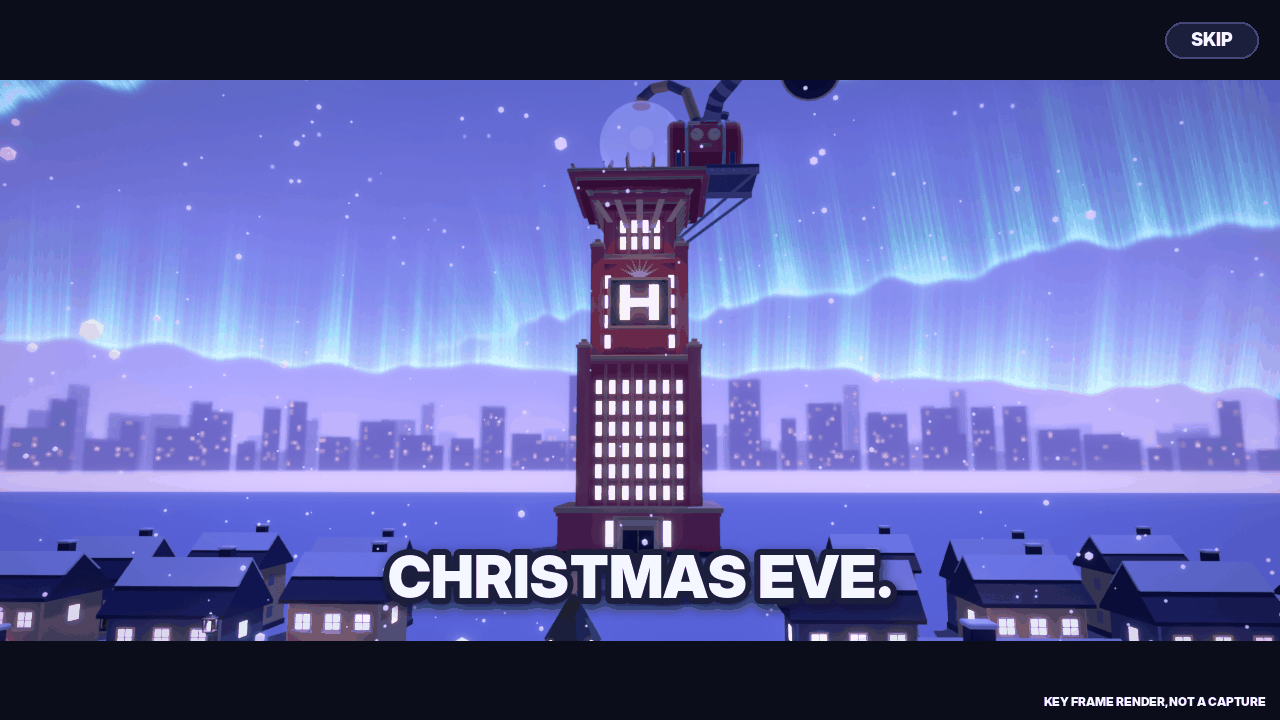
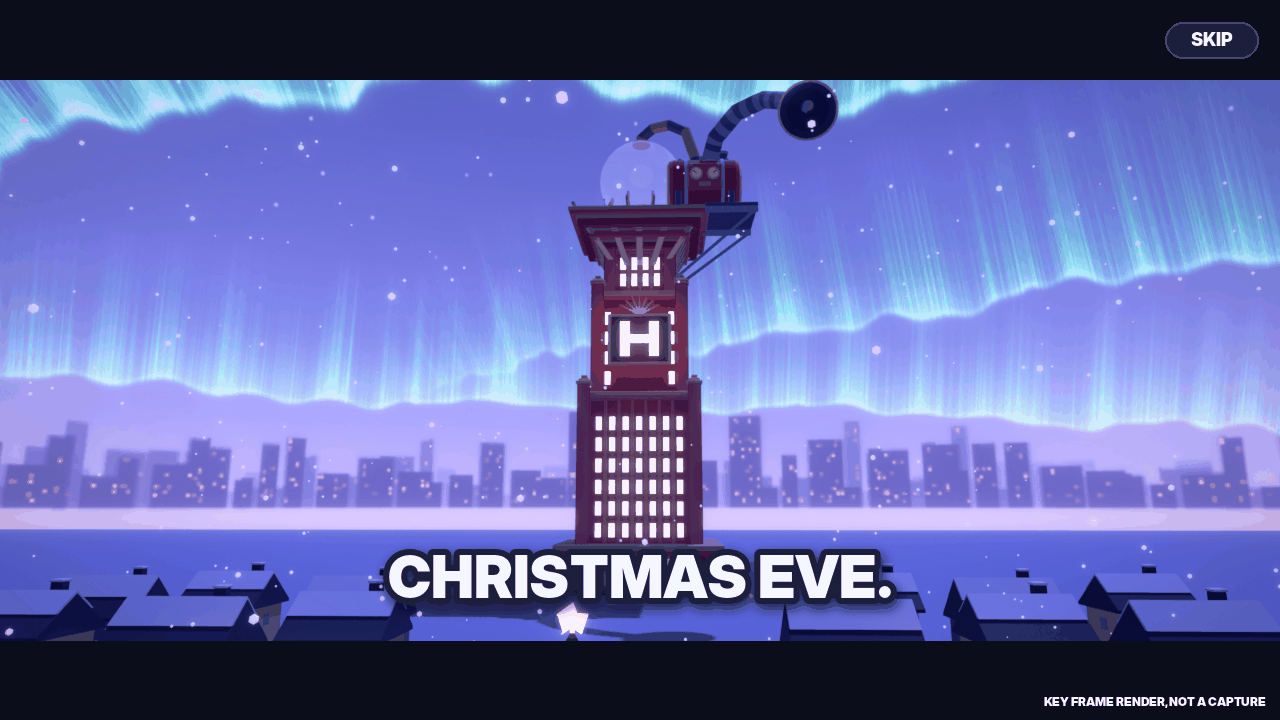
Intro key frames re-rendered (shots 1-7 + contact sheet: kit tower, real aurora, vortex, Rookie-copy clones), shot 2 / 3 framing and a lighter vortex, rookie sheet with the new faces, tail and the first-person arms row; PROJECT_STATE
Claude-Session: https://claude.ai/code/session_01QMSuPfsKra1qjqHBWxnEoR

diff --git a/tools/blender/rookie_sheet.py b/tools/blender/rookie_sheet.py
@@ -9,8 +9,8 @@ Writes docs/art/rookie_sheet.png:
   row 2  the same frames with the Rookie 48 px tall, shown 3x with nearest-neighbour (PLAN_STEAM_PLUS A4: 48 px read)
   row 3  the four faces (idle, smug, shocked, busted) close up
   row 4  the first-person arms in four outfits, as Heist/Viewmodel.fromOutfit builds them from the same pieces
-         (sleeve, glove in the glove colour, the gloves slot's cuff, crew stripes or the colour-block cuff), raised in
-         front of the eye like the viewmodel's rest pose
+         (sleeve, glove in the glove colour, the gloves slot's cuff, crew stripes or the colour-block cuff), raised
+         forward about the elbow, seen from the front
 Lights are kit_preview's Heist Night approximation, the floor the runtime floor colour. Evidence rung R0 (offline
 render of the real meshes), not a Studio capture. Colours: crew = Palette.CLONE_HUES, gloves = Config.Rookie.GLOVES.
 """
@@ -218,8 +218,8 @@ def main(argv):
     vms = []
     for i, (gloves, sweater, ci) in enumerate(VM_LOOKS):
         p = os.path.join(tmp, f"vm_{i}.png")
-        render(p, a.size, a.samples, lambda g=gloves, sw=sweater, ci=ci: arms(g, sw, CREW[ci]), (0, -0.55, 2.05), 180,
-               22, 2.7, 46)
+        render(p, a.size, a.samples, lambda g=gloves, sw=sweater, ci=ci: arms(g, sw, CREW[ci]), (0, -0.75, 2.0), -32,
+               16, 4.2, 40)
         vms.append((p, f"arms: {gloves} gloves, {sweater}"))
     print(sheet((looks, faces, vms), a.size, OUT))
 

diff --git a/tools/blender/intro_shots.py b/tools/blender/intro_shots.py
@@ -515,7 +515,7 @@ def vortex(st, P_, cam_pos):
         o = bpy.data.objects.new("Vortex", me)
         bpy.context.scene.collection.objects.link(o)
         # UV v runs from the mouth (0) to the far end (1): bright and warm at the mouth, faint violet out there
-        me.materials.append(gradient_mat(f"Vortex{arm}", col0, col1, 2.6, alphas[0], alphas[-1]))
+        me.materials.append(gradient_mat(f"Vortex{arm}", col0, col1, 1.3, alphas[0], alphas[-1]))
         o.visible_shadow = False
 
 

diff --git a/PROJECT_STATE.md b/PROJECT_STATE.md
@@ -335,7 +335,7 @@ _Last updated: 2026-11-13 (SKY track: northern lights)_
 - **Tests:** unit `AuroraPlan` (8); engine `client_engine` K (Saved v59: 50 checks, 0 failed; 26 / 26 / 13 / 7 Beams per tier, the textures are Image assets).
 - **Studio checks left:** (1) curtain orientation: if the violet tips draw at the bottom, set `Config.Aurora.REVERSE_SPINE = true`; if the rays run along the band instead of across it, the tiles need a 90° turn (the tool assumes image x along the Beam). (2) Does Atmosphere (Density 0.28) haze the far Drape and Glow at 600-900 studs? (3) Phone fill rate when looking up at tier 1-2. (4) The diorama camera never sees the sky (its frame top is 30° below the horizon): there the aurora shows only as the snow tint. (5) The SKY plan's skybox update (lighter horizon, stars) is World 2.0's file (`default.project.json` Sky), not done here.
 - **Pivot wave A/B integrated (integrator, 2026-11-13 night):** first person, the Rookie, World 2.0, the story intro and the northern lights are on main. Engine on v60: engine_smoke 0, client_engine 51/0, clone_engine 0, kit_engine 0, perf_engine 0. **Published** for the owner's morning test. Still running: BIG buildings (ceilings, cut-away, tall facades, warehouse garage) and wave C (L1 cash, Toy Shop warm, first-person onboarding). Then LOBBY (van choice, SOLO/CREW, job board, wardrobe, GO, drive).
-- Polish backlog from the reports: the intro's clones should be Rookie copies, not cyan mannequins; Hoardsworth's tower is too plain; the vacuum reads small; the intro uses its own simple aurora (swap in Heist/Aurora); the Rookie's face is a bit flat and the scarf tail rigid; the first-person arms ignore the chosen gloves; L2 plate-ring contrast 0.094; L5/L6 focal prop outshone by street pools; aurora orientation and haze need a Studio look; some World 2.0 frames read washed out.
+- Polish backlog from the reports (the intro / Rookie items are done: see "Character and intro polish" below): L2 plate-ring contrast 0.094; L5/L6 focal prop outshone by street pools; aurora orientation and haze need a Studio look; some World 2.0 frames read washed out.
 
 ## 2026-11-13: Wave C track (PLAN_FIRST_PERSON wave C: L1 cash, warm Toy Shop, first-person onboarding)
 - **L1 cash moved (gameplay data):** `Cash` (0, -28) → **(10, -26)**, on a `Safe` display (LevelDress L1 entry only: `displays`, the back-room rug follows; the hero lamp follows the goal). Why not x 6 (LEVELS.md's example): the right partition window's glass spans x 5.5..10.5, y 4.85..9.85 at z -20, so from the spawn a cash at x 6 sits behind the door frame; and the Rookie's eyes (~3.8) are under the sill, so a bag on the floor stand never shows: on the safe its top third clears the sill from every seat (unit `HeistL1Cash`; engine clone_engine section 7: 3 of 9 rays per seat, the rest stopped by the sill). Renders: `docs/audit/levels/after/L1_*` incl. the new first-person shot `1c_spawn_fp` (level_shots.py, `FP_EYE` 3.8).
@@ -345,3 +345,17 @@ _Last updated: 2026-11-13 (SKY track: northern lights)_
 - **Tests:** unit 498 (HeistL1Cash, edge cue, device lines), sim 226 (Pacing L1 bars), compile, StyLua, Selene x2, pure, LihFolk 0, 4 places + place_check, clips, hud_layout, glyph, ui_kit, `build_asset --all` ALL GATES PASS. Engine: Saved **v61** (this branch as is) clone_engine 0, engine_smoke 3 kit failures and kit_engine 21: all from the INTRO polish track's re-uploads (Intro_Vacuum, Rookie faces / scarf, same asset ids) that this branch's KitData does not know yet (the kit boot report is "not ok", so levels stay greybox). Saved **v62** (this branch + that track's KitData, not committed): engine_smoke 0, client_engine 51/0, clone_engine 0, kit_engine 0. On merge: regenerate KitData (`kit_upload.py --gen`) so it carries both the intro groups and the new ToyShop ids.
 - **Open:** the cash shows only its top third from the spawn in first person (the sill is above the Rookie's eyes; a lower sill or a taller display would show more); the look cue's finger is upside down when it points left; not yet seen in Studio or on a phone (the cue, the TAP cap, the label lift).
 - **Wave C merged + live fix (integrator):** L1 cash on a Safe at (10,-26), visible through the window (gameplay data change; pacing bars asserted); warm berry Toy Shop atlas (image 90000315473532); device-aware first-person onboarding and a look cue. **Incident:** the polish track re-uploaded Intro_Vacuum and Rookie faces/scarf in place, so LoadAsset returned new sizes that KitData didn't know and the whole kit failed (levels greybox), likely also in the published v60. **Fix:** KitService scales a size-mismatched piece to the build's spec and keeps `report.ok` (the size error stays in the report and fails kit_engine). Engine v68: engine_smoke 0, client_engine 51/0. **v68 Published.** Rule from now on: proportion changes go up as new asset ids (`--new`) unless KitData is regenerated in the same merge.
+
+## 2026-11-13: Character and intro polish track (CH + INTRO + SKY backlog)
+- **Intro clones (shot 6):** Rookie copies of `CharacterKit.Rookie` drawn the way EchoView draws your clones: the outfit kept, only the crew pieces (`EH_Tint` "crew") in your hue with the solo age ramp (older runs dimmer, drifting toward violet: `CloneState.driftHue`, `Palette.dim`), ONE crew-hue Highlight over a `Crew` group (fill `CLONE_FILL_TRANSPARENCY`, outline), a floor glow each (`PlayerHalo.disc`) and the tape print (parts appear from the feet up under a rising scan band, the ring settles; reduced motion: at once). They strike his pose and pull his grin. **Bug fixed on the way:** the CharacterKit template had NO outfit (Rookie.apply looked up the kit folder while publishNow had not parented it yet), so the intro Rookie was bare; `Rookie.apply(model, outfit, hue, source?)` now takes the piece source.
+- **The intro's sky** is the game's own `Heist/Aurora` (anchored to the stage, landmark yaw `Config.Intro.AURORA_YAW`, its tier and reduced motion), shown at once (`Aurora.new(parent, { revealSeconds = 0 })`); the session's aurora hides while it plays (`Aurora.solo` / `Aurora.release`, released on every exit path). The old local Beam aurora is gone (`Config.Intro.AURORA_LAYERS` removed).
+- **Hoardsworth Tower** (`assets/blender/intro.py` `tower()`, gates pass, **Intro_Tower 133572245411117**, 10,364 tris): art-deco toy-tycoon landmark: podium with a gold portal, two setbacks with gold cornices, corner piers with stepped gold caps, pilasters between columns of lit windows (Neon, out on "...GONE."), a giant "H" sign (Neon, Sign Gold #FFB85C, new `eh_palette.NEON` entry, floodlit at tiers 1-2), a flared crown of corbels and sunburst fins, the roof terrace (top = deckY 130) with a balustrade, and a steel gantry for the vacuum. `Heist/IntroKit` publishes it; the Part tower stays as the stand-in. The Heist City sky's tower (`tools/blender/sky_city.py`) is its own procedural render (no shared source), so the sky faces were NOT re-rendered or re-uploaded.
+- **The vacuum** is authored 1.4x (`VAC_S`, same id 81402106868569) on the gantry (`STAGE.vacuum.at` (23,130,-188), the mouth `nozzle` (55.2,152.4,-154.4) hanging out over the town, `aim`); shot 3 opens beside and under the mouth (47 deg of a 55 deg frame) and cranes back down the stream (the machine stays within 120 studs). **Suction vortex:** spiral arms of additive Beams on a funnel along the aim, spun about it (`Config.Intro.VORTEX`: 8 / 6 / 4 / 0 arms per tier, 40 Beams at tier 1).
+- **Shot 2** reframed: low from his front-left at the terrace edge, Hoardsworth against the sky, the globe off his shoulder (no lever post in front, unit-checked: the globe is > 25 deg off the view axis). Shot 1 ends with the globe in frame.
+- **The Rookie's face** (`rookie.py` `face()`, Rookie + Rookie_Faces re-uploaded, same ids): brush-stroke brows shaped per expression (idle arch, smug one cocked / one low, shocked high, busted worried), a shine on each pupil, a cheek highlight, a crooked smug smirk with a dimple, a relaxed idle half smile; still one dark brow, two light eyes and one mouth line at 48 px. **Scarf tail:** the long scarf's tail is two pieces, `Rookie_Scarf_Long_Tail1` / `_Tail2` (pivots at their hinges, crew tint, Rookie_Outfits re-uploaded, same id; RookieData regenerated: the Long scarf is now 3 pieces). `Shared/Heist/ScarfMath` (pure: hangs at rest, streams out as modelled at RUN_SPEED, swings away from a strafe, trails a turn, lifts in a fall, flutters while moving, damped springs, sub-stepped) + client `Heist/ScarfSway` (rewrites the two welds' C0 locally on your character and your clones' avatar rigs via `EchoView.swayModels`, nearest `Budget.scarfRigs(tier)` = 8 within 70 studs, **off at tier >= 3**, hidden characters skipped); numbers in `Config.Rookie.SCARF`.
+- **First-person arms in your outfit:** `Viewmodel.fromOutfit(CharacterKit, player "Outfit" key, crew hue)` builds the arms from the same kit pieces as your body (sleeve, glove in the glove colour, the gloves slot's cuff, two crew Breton stripes down the sleeve or the colour-block cuff), rebuilt when your outfit or hue changes; the plain Rookie_Viewmodel stays the fallback. Numbers `Config.FirstPerson.VIEWMODEL.SLEEVE_STRIPES / STRIPE_*`.
+- **Renders (looked at):** `docs/art/intro/shot_1..7.png` + `contact_sheet.png` (kit tower, the real aurora curtains from AuroraPlan, the vortex, Rookie-copy clones with the Highlight fill + outline and one mid-print); `docs/art/rookie_sheet.png` (new faces, the tail pieces, new row 4: the first-person arms in four outfits); turntables Intro_Tower, Intro_Vacuum, Rookie, Rookie_Faces, Rookie_Outfits. Self-scores before -> after: shot 6 clones 5 -> 8; intro sky 6.5 -> 8; the tower 4 -> 7.5; shot 3 vacuum 5.5 -> 7 (the mouth fills the frame; the vortex still reads a little heavy in the still); shot 2 5.5 -> 7 (Hoardsworth alone against the aurora, the globe cradle only frames the right edge); shot 1 7 -> 8; face 6 -> 7.5; first-person gloves 5 -> 7.5 (render only; not seen in Studio).
+- **Tests:** unit 504 (new `HeistScarf` 5, HeistIntro framing, HeistOutfit tail pieces), sim 226, compile, StyLua, Selene x2, pure, LihFolk 0, 4 places + place_check 0, clips, hud_layout 2,846/0, glyph, ui_kit 103/0, `build_asset.py --all` ALL GATES PASS. Engine on Saved **v70** (after merging main + regenerated KitData): client_engine **52/0** (J intro: kit tower, the real aurora, the vortex, the crew Highlight, clone 4 printing feet-first, crew pieces tinted with the outfit kept; new L: arms in two outfits, the scarf welds sway / restore / range), engine_smoke 0, clone_engine 0, kit_engine 0 (0 size errors), perf_engine 0.
+- **Kit incident lesson:** the in-place re-uploads (Intro_Vacuum, Rookie, Rookie_Faces, Rookie_Outfits, same ids) changed what every published build loads before main knew the new sizes; main now scales a mismatched piece, and this branch regenerated KitData after merging main. Proportion changes go up with `--new` from now on.
+- **Open / Studio look:** the vortex density and the H floodlight on a phone; ScarfSway's Weld.C0 writes on a live character under the Avatar Joint Upgrade (welds are untouched by it, but check) and its feel (DROOP 62, spring 1.3 Hz); the arms' stripes at the FP scale; the sky tower (sky_city.py) still lacks the giant H.
+
